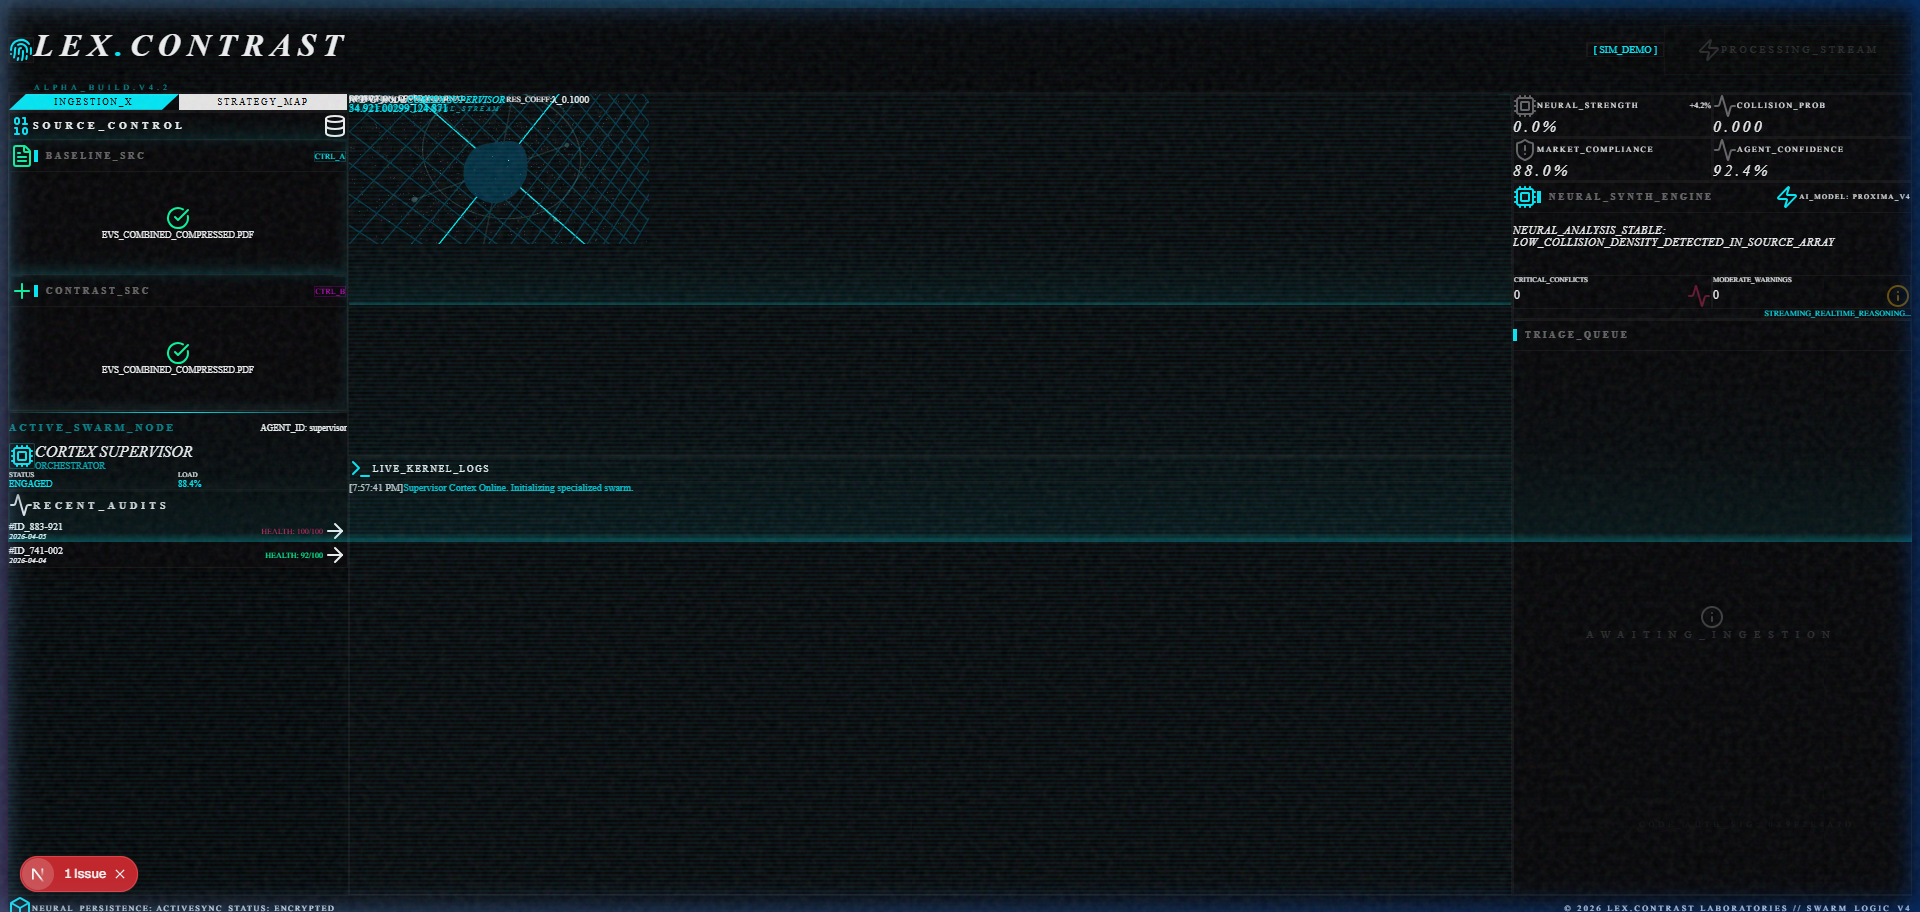
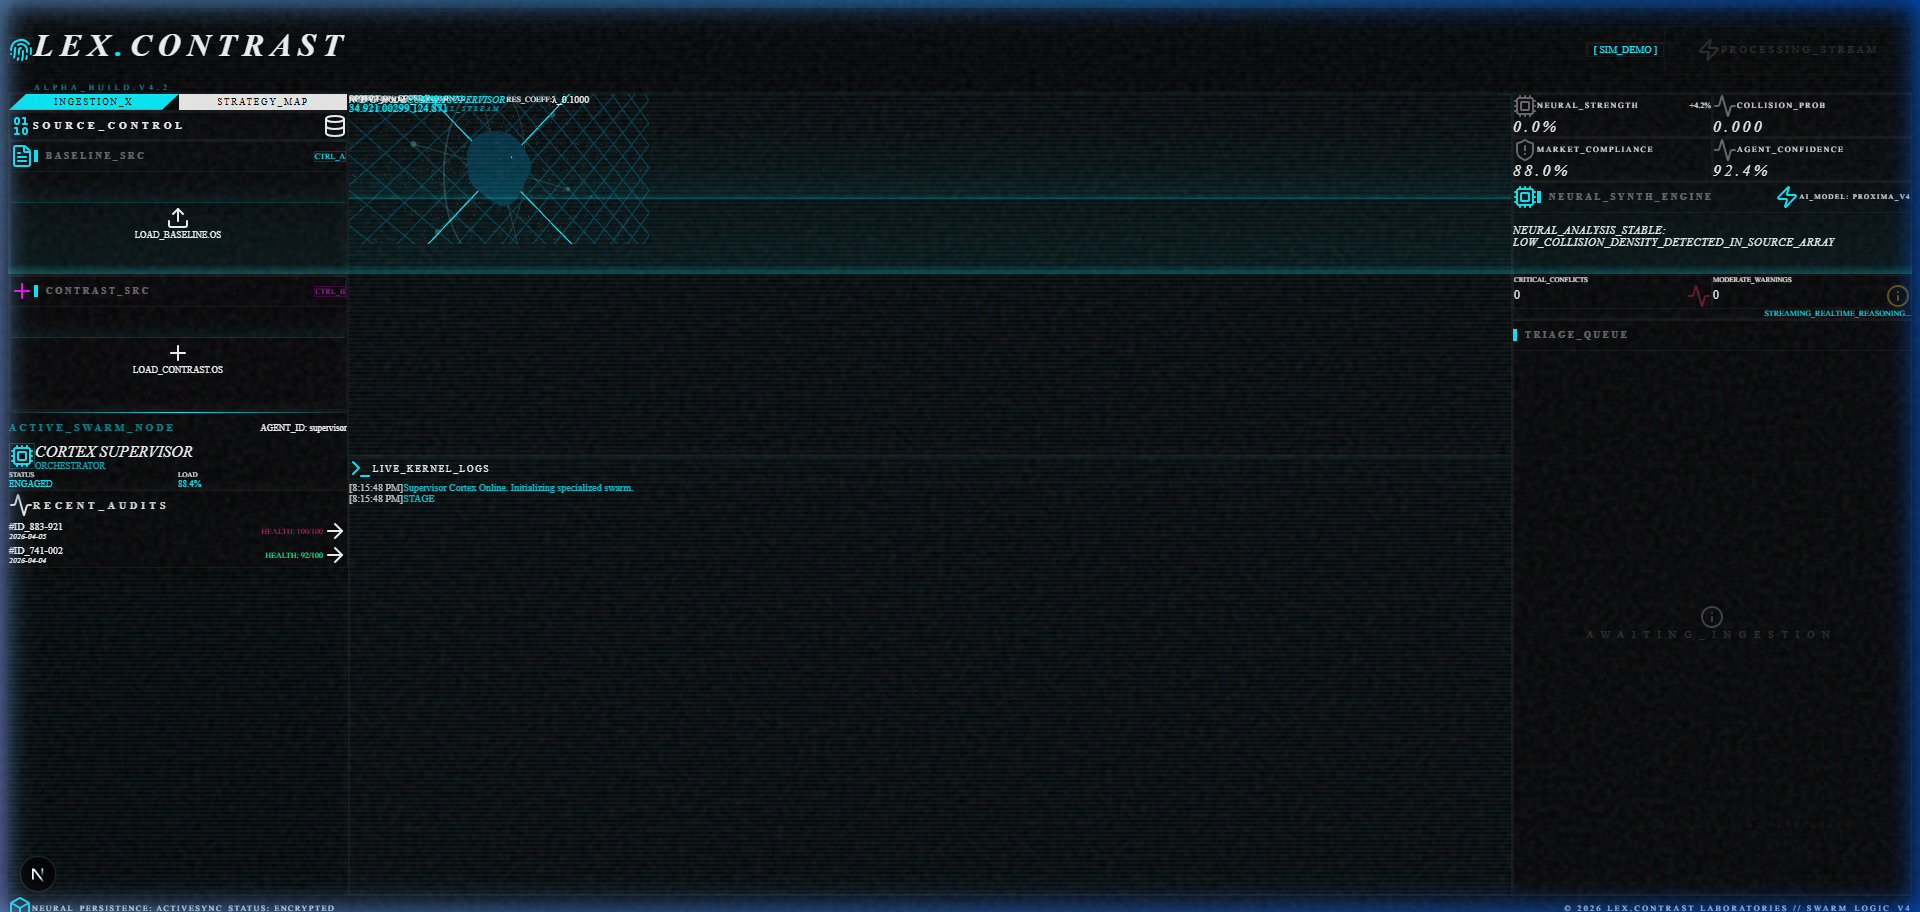
docs: update live verification lifecycle screenshots and system verification

Changed region(s): [[0.0, 0.0, 1.0, 1.0], [0.0625, 0.3684, 0.125, 0.4298], [0.1875, 0.5219, 0.2188, 0.5526]]

diff --git a/README.md b/README.md
@@ -9,9 +9,11 @@
 
 ---
 
-## 📽 Live Demonstration
+## 📽 Live Verification Lifecycle
 
 ````carousel
+![0. Infrastructure - Waiting for neural input protocol.](public/screenshots/empty.png)
+<!-- slide -->
 ![1. Neural Ingestion - High-fidelity file slotting for baseline and contrast sources.](public/screenshots/ingestion.png)
 <!-- slide -->
 ![2. Neural Handshake - Cortex Supervisor synchronizing the agent swarm kernel.](public/screenshots/handshake.png)
